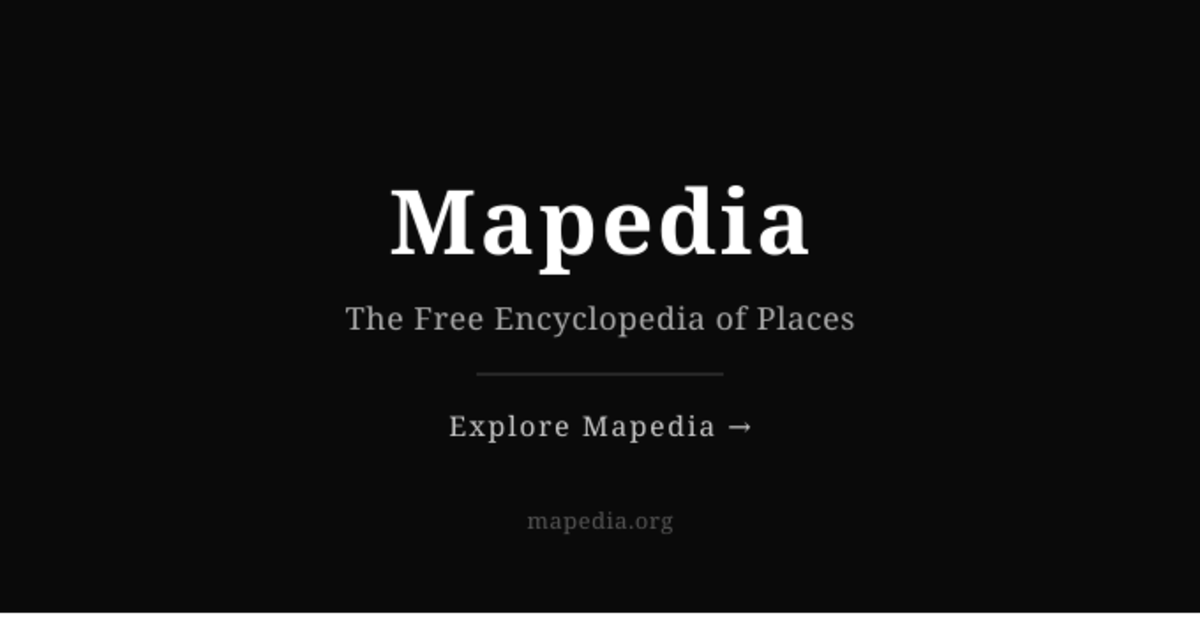
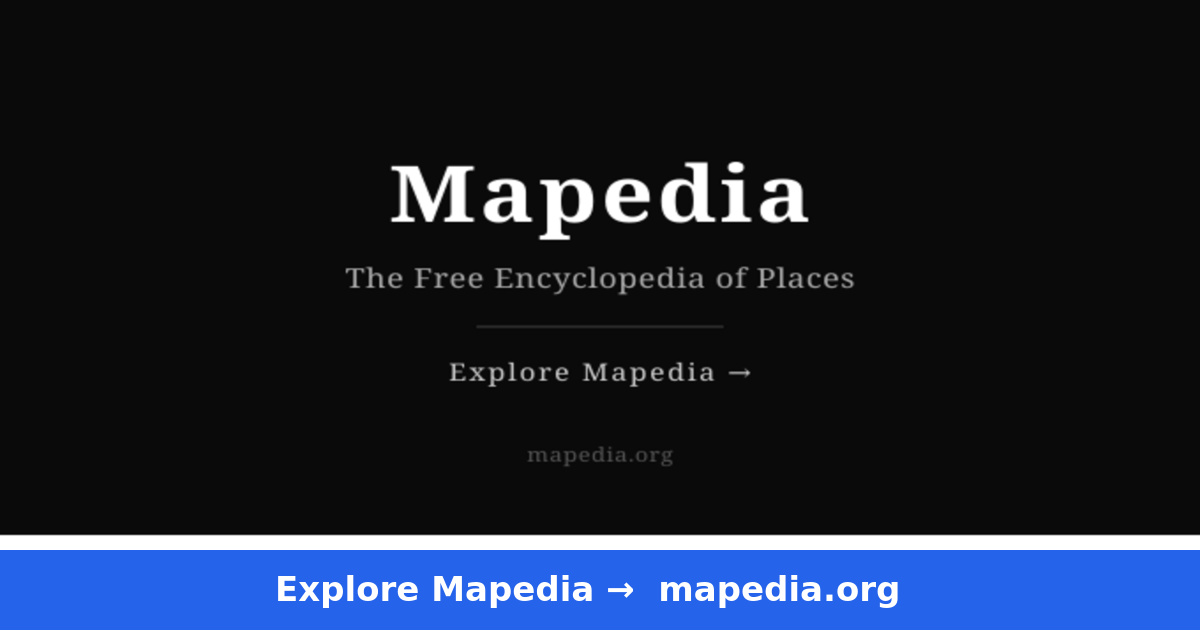
seo: add CTA bar to og-image, fix title to 52 chars (optimal 50-60)
- og-image.png: blue CTA bar added at bottom ("Explore Mapedia →")
- title: "Community-Built" → "The Community-Built" (48 → 52 chars)

diff --git a/src/pages/HomePage.jsx b/src/pages/HomePage.jsx
@@ -61,7 +61,7 @@ function HomePage() {
   // ==========================================
   // AI-SEO & SCHEMA (YAPISAL VERİ) OLUŞTURUCU
   // ==========================================
-  const pageTitle = "Mapedia | Community-Built Encyclopedia of Places";
+  const pageTitle = "Mapedia | The Community-Built Encyclopedia of Places";
   const pageDesc = "Mapedia is a community-maintained, open database of geographical locations. Discover, document, and share practical details about places worldwide under CC BY-SA 4.0.";
 
   // WebSite Şeması: Google'a sitenizin bir marka/ansiklopedi olduğunu belirtir.
@@ -87,18 +87,18 @@ function HomePage() {
     <div className="home-container">
       {/* HELMET İLE SEO ETİKETLERİNİ BASIYORUZ */}
       <Helmet>
-        <title>Mapedia | Community-Built Encyclopedia of Places</title>
+        <title>Mapedia | The Community-Built Encyclopedia of Places</title>
         <meta name="description" content="Mapedia is a free, community-maintained open database of real-world venues. Discover water fountains, free toilets, cafes, parks and more — open data under CC BY-SA 4.0." />
         <link rel="canonical" href="https://mapedia.org" />
 
-        <meta property="og:title" content="Mapedia | Community-Built Encyclopedia of Places" />
+        <meta property="og:title" content="Mapedia | The Community-Built Encyclopedia of Places" />
         <meta property="og:description" content="5,700+ verified venues: water fountains, free toilets, laptop-friendly cafes and more. Community-built, open data under CC BY-SA 4.0. Free to use, forever." />
         <meta property="og:type" content="website" />
         <meta property="og:url" content="https://mapedia.org" />
         <meta property="og:image" content="https://mapedia.org/og-image.png" />
 
         <meta name="twitter:card" content="summary_large_image" />
-        <meta name="twitter:title" content="Mapedia | Community-Built Encyclopedia of Places" />
+        <meta name="twitter:title" content="Mapedia | The Community-Built Encyclopedia of Places" />
         <meta name="twitter:description" content="5,700+ verified venues: water fountains, free toilets, cafes and more. Open data, free forever." />
         <meta name="twitter:image" content="https://mapedia.org/og-image.png" />
 

diff --git a/index.html b/index.html
@@ -4,7 +4,7 @@
   <meta charset="UTF-8" />
   <meta name="viewport" content="width=device-width, initial-scale=1.0" />
   <meta name="language" content="en" />
-  <title>Mapedia | Community-Built Encyclopedia of Places</title>
+  <title>Mapedia | The Community-Built Encyclopedia of Places</title>
   <meta name="description" content="Mapedia is a free, community-maintained open database of real-world venues. Discover water fountains, free toilets, cafes, parks and more — open data under CC BY-SA 4.0." />
   <meta name="robots" content="index, follow" />
   <meta name="theme-color" content="#2563eb" />
@@ -14,14 +14,14 @@
   <!-- Static OG fallback (shown before JS loads, e.g. link unfurlers) -->
   <meta property="og:site_name" content="Mapedia" />
   <meta property="og:type" content="website" />
-  <meta property="og:title" content="Mapedia | Community-Built Encyclopedia of Places" />
+  <meta property="og:title" content="Mapedia | The Community-Built Encyclopedia of Places" />
   <meta property="og:description" content="5,700+ verified venues: water fountains, free toilets, laptop-friendly cafes and more. Community-built, open data under CC BY-SA 4.0. Free to use, forever." />
   <meta property="og:url" content="https://mapedia.org" />
   <meta property="og:image" content="https://mapedia.org/og-image.png" />
 
   <!-- Twitter Card fallback -->
   <meta name="twitter:card" content="summary_large_image" />
-  <meta name="twitter:title" content="Mapedia | Community-Built Encyclopedia of Places" />
+  <meta name="twitter:title" content="Mapedia | The Community-Built Encyclopedia of Places" />
   <meta name="twitter:description" content="5,700+ verified venues: water fountains, free toilets, cafes and more. Open data, free forever." />
   <meta name="twitter:image" content="https://mapedia.org/og-image.png" />
 </head>
